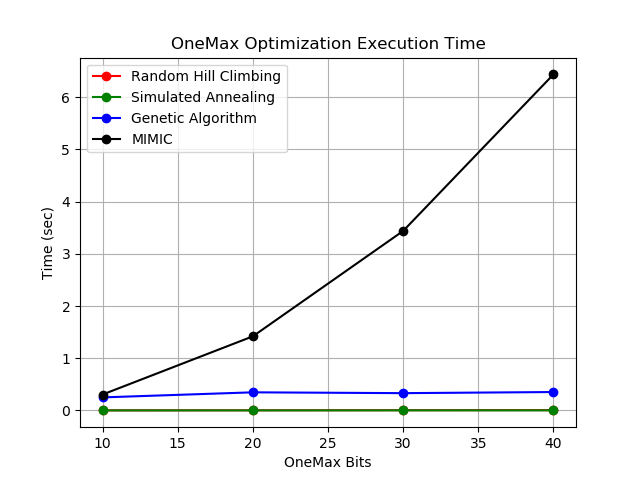
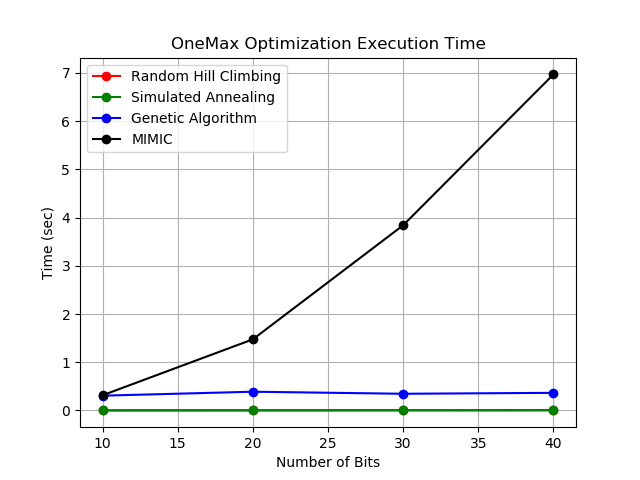
fixed axis name

diff --git a/run_optimizations.py b/run_optimizations.py
@@ -95,7 +95,7 @@ plt.savefig("images/queen_time.png")
 # Plot OneMax Values
 plt.figure()
 plt.title("OneMax Optimization Values")
-plt.xlabel("OneMax Bits")
+plt.xlabel("Number of Bits")
 plt.ylabel("Max Value")
 
 plt.grid()
@@ -112,7 +112,7 @@ plt.savefig("images/one_max_values.png")
 # Plot OneMax Times
 plt.figure()
 plt.title("OneMax Optimization Execution Time")
-plt.xlabel("OneMax Bits")
+plt.xlabel("Number of Bits")
 plt.ylabel("Time (sec)")
 
 plt.grid()
@@ -148,7 +148,7 @@ plt.savefig("images/knapsack_values.png")
 # Plot Knapsack Times
 plt.figure()
 plt.title("Knapsack Optimization Execution Time")
-plt.xlabel("Knapsack Size")
+plt.xlabel("Number of Knapsack Items")
 plt.ylabel("Time (sec)")
 
 plt.grid()
